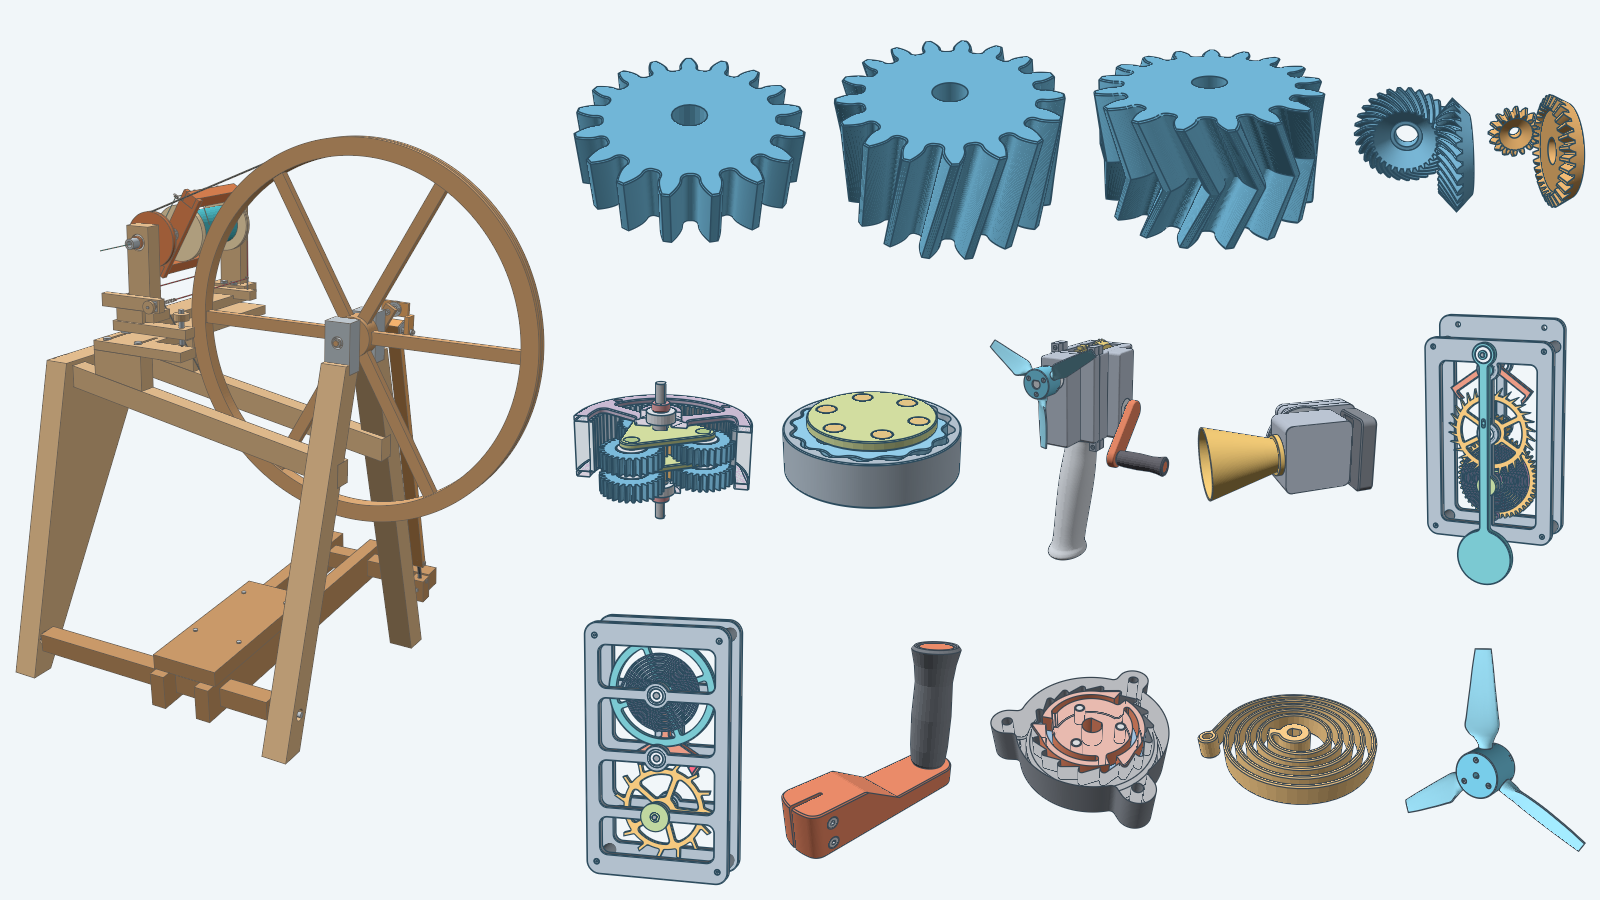
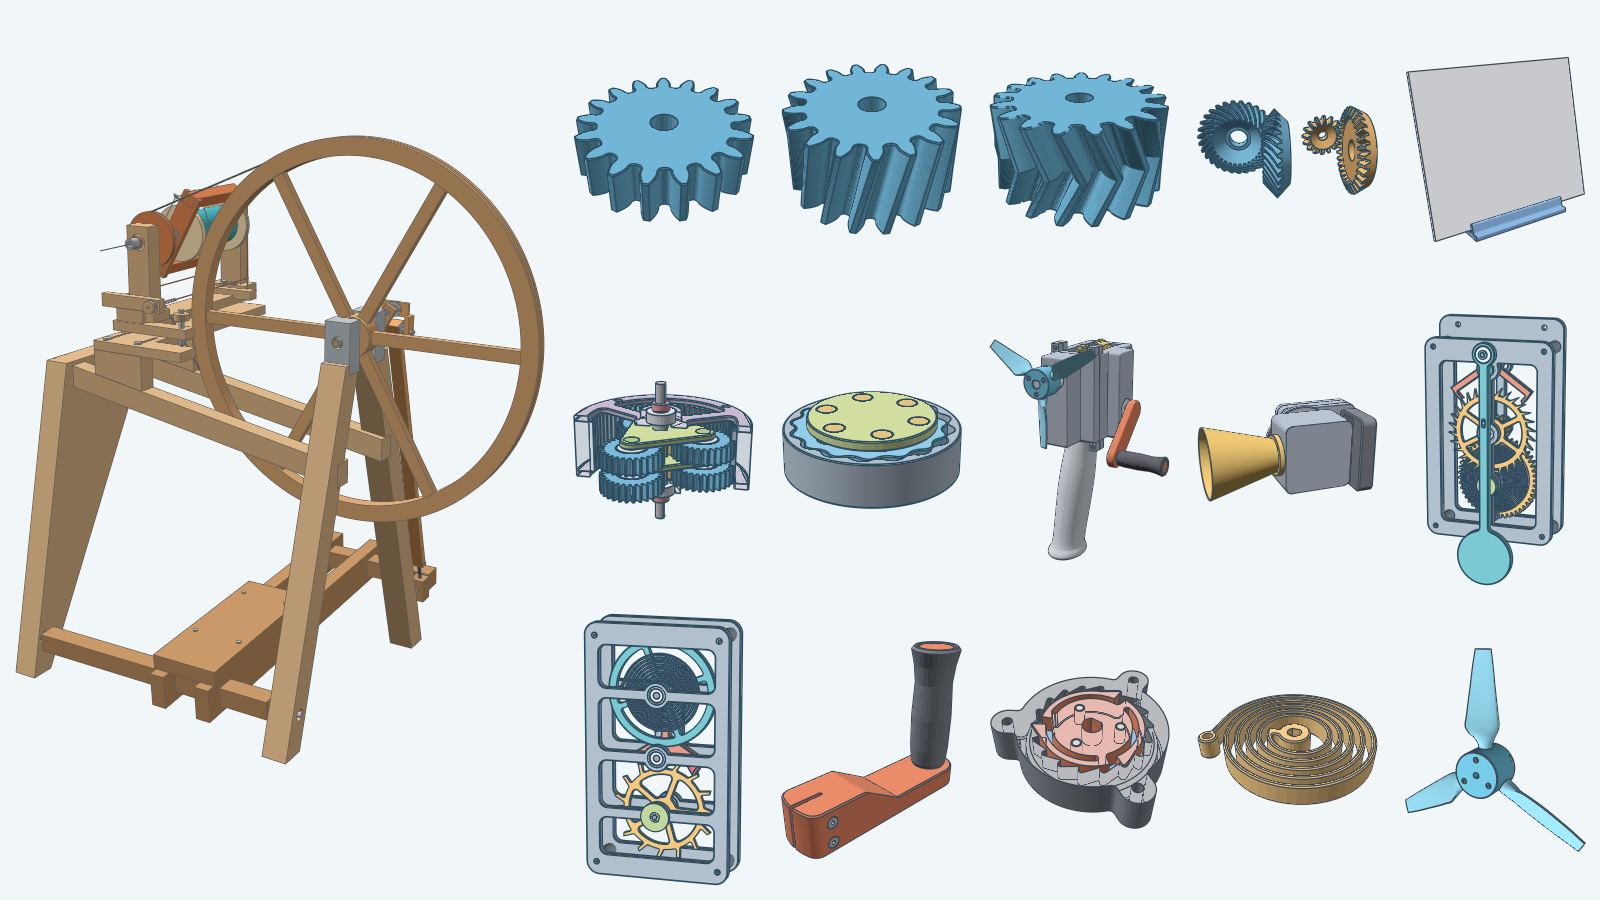
add plaque stand to the gallery image

Changed region(s): [[0.3438, 0.0311, 1.0, 0.28]]

diff --git a/tools/render/gallery.go b/tools/render/gallery.go
@@ -24,16 +24,18 @@ type galleryTile struct {
 	cell  image.Rectangle
 }
 
-// galleryTiles puts the spinning wheel in a tall cell on the left and the other fourteen models in a grid beside it:
-// the three involute gears and the bevel gear pair across the top in four columns, then two rows of five. The planetary
+// galleryTiles puts the spinning wheel in a tall cell on the left and the other fifteen models in a grid beside it:
+// the three involute gears, the bevel gear pair and the plaque stand across the top in five columns, then two rows of
+// five. The planetary
 // gearbox, cycloidal drive, hand-crank fan, hand-crank siren and escapement fill the middle row, and the Swiss lever
 // escapement, crank handle, one-way clutch, spiral spring and turbine fan the bottom row.
 var galleryTiles = []galleryTile{
 	{"spinningwheel", spinningWheelView("hero"), image.Rect(0, 0, 560, 900)},
-	{"spurgear", spurGearHero, image.Rect(560, 0, 820, 300)},
-	{"helicalgear", helicalGearHero, image.Rect(820, 0, 1080, 300)},
-	{"herringbonegear", herringboneGearHero, image.Rect(1080, 0, 1340, 300)},
-	{"bevelgear", bevelGearHero, image.Rect(1340, 0, 1600, 300)},
+	{"spurgear", spurGearHero, image.Rect(560, 0, 768, 300)},
+	{"helicalgear", helicalGearHero, image.Rect(768, 0, 976, 300)},
+	{"herringbonegear", herringboneGearHero, image.Rect(976, 0, 1184, 300)},
+	{"bevelgear", bevelGearHero, image.Rect(1184, 0, 1392, 300)},
+	{"plaquestand", plaqueStandHero, image.Rect(1392, 0, 1600, 300)},
 	{"planetarygearbox", planetaryGearboxHero, image.Rect(560, 300, 768, 600)},
 	{"cycloidal", cycloidalHero, image.Rect(768, 300, 976, 600)},
 	{"handcrankfan", handCrankFanHero, image.Rect(976, 300, 1184, 600)},

diff --git a/docs/rendering.md b/docs/rendering.md
@@ -63,6 +63,15 @@ across the clamp nuts' pockets at x = -7, and `cross-section` cuts the pin acros
 y = Throw - 3; both look into the cut:
 `go -C tools/render run . -model crankhandle -shot readme -out ../../models/crankhandle/images`.
 
+`plaquestand/hero` renders the default stand, blue, with the placeholder plaque, grey, leaning in its slot, seen from the
+front left and above. The `stand` preset shows the stand alone, `side` shows both from +X, and `back` shows both from
+behind and above. `exploded` lifts the plaque out of the slot by the back rest's height plus 40 mm along the slot axis.
+`print` turns the stand onto its x = 0 face, the way it prints. `sizes` stands the smallest (150 × 120 × 2 mm), the default
+and the largest (400 × 350 × 15 mm) plaque with their stands left to right, 40 mm between the plaques. `part-stand` and
+`part-plaque` show each part alone. The `readme` shot builds the default stand once and the smallest and largest once each,
+and writes every image, the index image and the two 480 × 270 part images in `parts/`:
+`go -C tools/render run . -model plaquestand -shot readme -out ../../models/plaquestand/images`.
+
 `onewayclutch/hero` renders the default clutch with every body cut by the plane z = 9.25, the hub's mid-height, and the
 +Z side removed, seen from the front and above, so the pawl heads in the ring's teeth, the arms and the back plate show, with the ring's
 three ears outside them. The `front`, `back` and `side` presets show the whole clutch. `section` looks straight down the shaft axis onto
@@ -351,13 +360,13 @@ The `gallery/hero` preset does not include the ball bearing or screw gear.
 The `gallery/hero` preset writes the repository's hero image, `docs/images/gallery.png`. It renders the hero
 scenes of the spinning wheel, the spur, helical and herringbone gears, the planetary gearbox, the cycloidal
 drive, the bevel gear pair, the hand-crank fan, the hand-crank siren, the Graham escapement, the Swiss lever escapement, the crank handle, the
-one-way clutch, the spiral spring and the turbine fan one after another. On a cache miss, it renders each model twice,
+one-way clutch, the spiral spring, the turbine fan and the plaque stand one after another. On a cache miss, it renders each model twice,
 once to measure the pixels it draws and once at the scale that fits them to a cell of the 1600 × 900 pixel canvas,
 so every model fills its cell alike. The wheel takes a tall cell on the left
-(560 pixels wide). The other fourteen models fill a grid beside it: four columns across the top (260 × 300 pixels each)
-and two rows of five below (208 × 300 pixels each). The three gears and the bevel gear pair are across the top. The
+(560 pixels wide). The other fifteen models fill a grid beside it: five columns across the top (208 × 300 pixels each)
+and two rows of five below (208 × 300 pixels each). The three gears, the bevel gear pair and the plaque stand are across the top. The
 planetary gearbox, cycloidal drive, fan, siren and Graham escapement are in the middle, and the Swiss lever escapement,
-crank handle, one-way clutch, spiral spring and turbine fan are across the bottom. Building all fifteen models takes
+crank handle, one-way clutch, spiral spring and turbine fan are across the bottom. Building all sixteen models takes
 several minutes plus the wheel
 build:
 

diff --git a/README.md b/README.md
@@ -1,6 +1,6 @@
 # decad gallery
 
-![A spinning wheel, a hand-crank fan, a hand-crank siren, a Graham escapement, a Swiss lever escapement, a crank handle, a one-way clutch, a spiral spring and a turbine fan beside spur, helical, herringbone, planetary, cycloidal and bevel gears](docs/images/gallery.png)
+![A spinning wheel, a hand-crank fan, a hand-crank siren, a Graham escapement, a Swiss lever escapement, a crank handle, a one-way clutch, a spiral spring, a turbine fan and a plaque stand beside spur, helical, herringbone, planetary, cycloidal and bevel gears](docs/images/gallery.png)
 
 A gallery of parametric 3D shapes, patterns, and assemblies built with
 [decad](https://github.com/lestrrat-3d/decad). Each model is a solid body whose dimensions come from
@@ -17,11 +17,12 @@ a [Graham escapement](models/escapement/) with a spiral mainspring, a crutch and
 a [Swiss lever escapement](models/swisslever/) with a club-tooth escape wheel, a pallet lever and a balance on a
 printed hairspring, 608-2RS and 605ZZ bearing envelopes, a [spiral spring](models/spiralspring/) with a D-bore hub and an anchor eye, a [crank handle](models/crankhandle/)
 with a handle that turns on its pin, a [one-way clutch](models/onewayclutch/) with three flexing pawls for a D-flat shaft and an adapter ring,
+a [plaque stand](models/plaquestand/) that holds a flat plaque reclined on a desk or shelf,
 a [turbine fan](models/turbinefan/) with swappable blades on a round hub held on a D-flat shaft by a set screw
 (the same hub also bolts to the one-way clutch's adapter ring so the fan coasts),
 M5 bolt and nut envelopes, and a [pin ring](models/pinring/) assembly aid that holds a pin in place during assembly.
 Each model's page shows rendered images and lists the inputs you can change.
-The M5 bolt and nut, the spinning wheel, the escapements, the spiral spring, the turbine fan, the hand-crank fan and the hand-crank siren are not built
+The M5 bolt and nut, the spinning wheel, the escapements, the spiral spring, the turbine fan, the plaque stand, the hand-crank fan and the hand-crank siren are not built
 yet: nobody has made them as physical objects and tested them. The [model table](models/) marks every model's
 build status.
 
